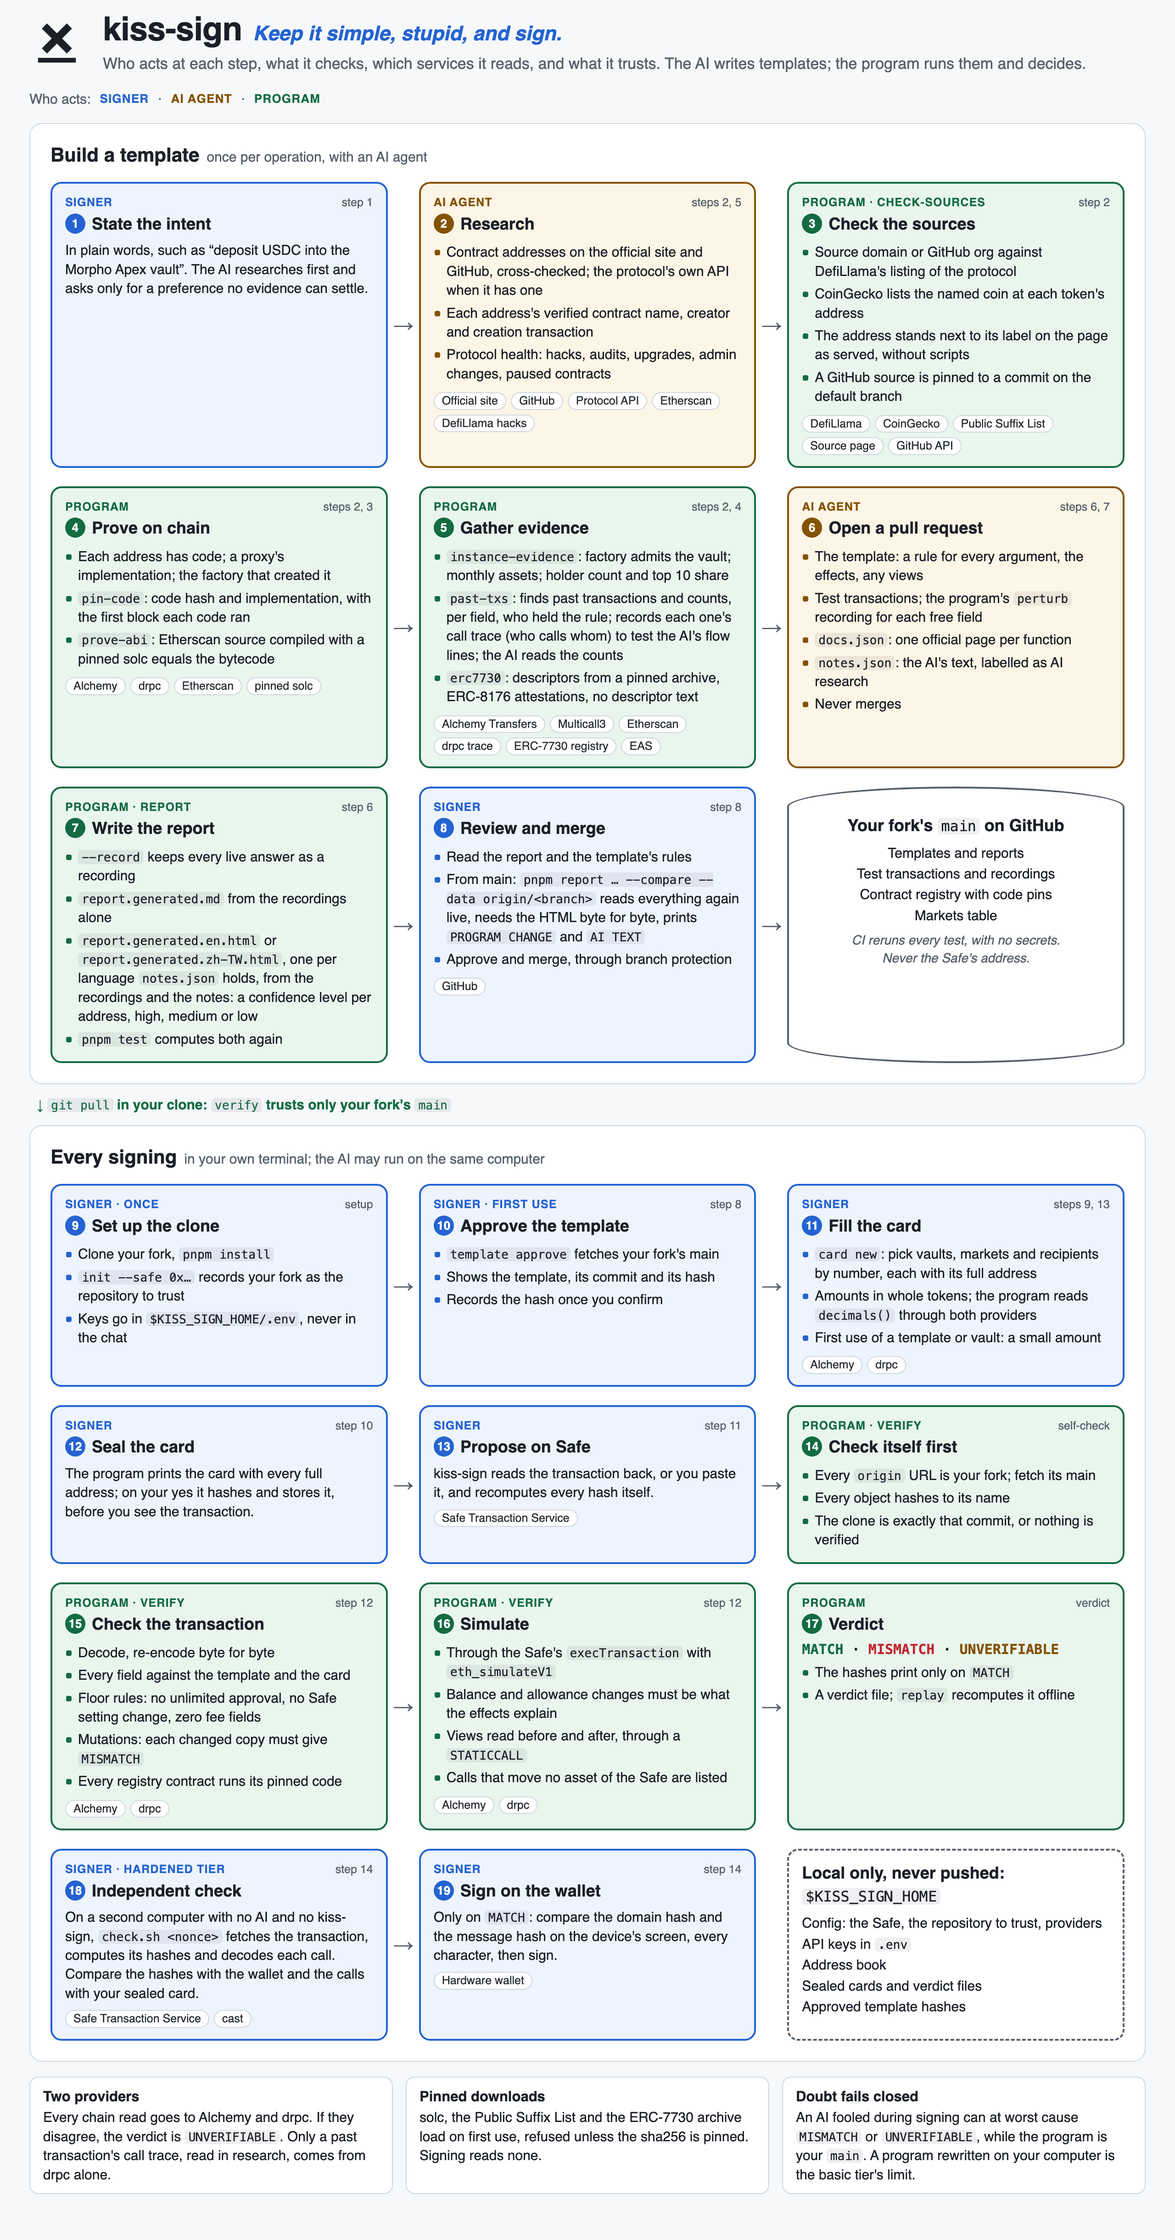
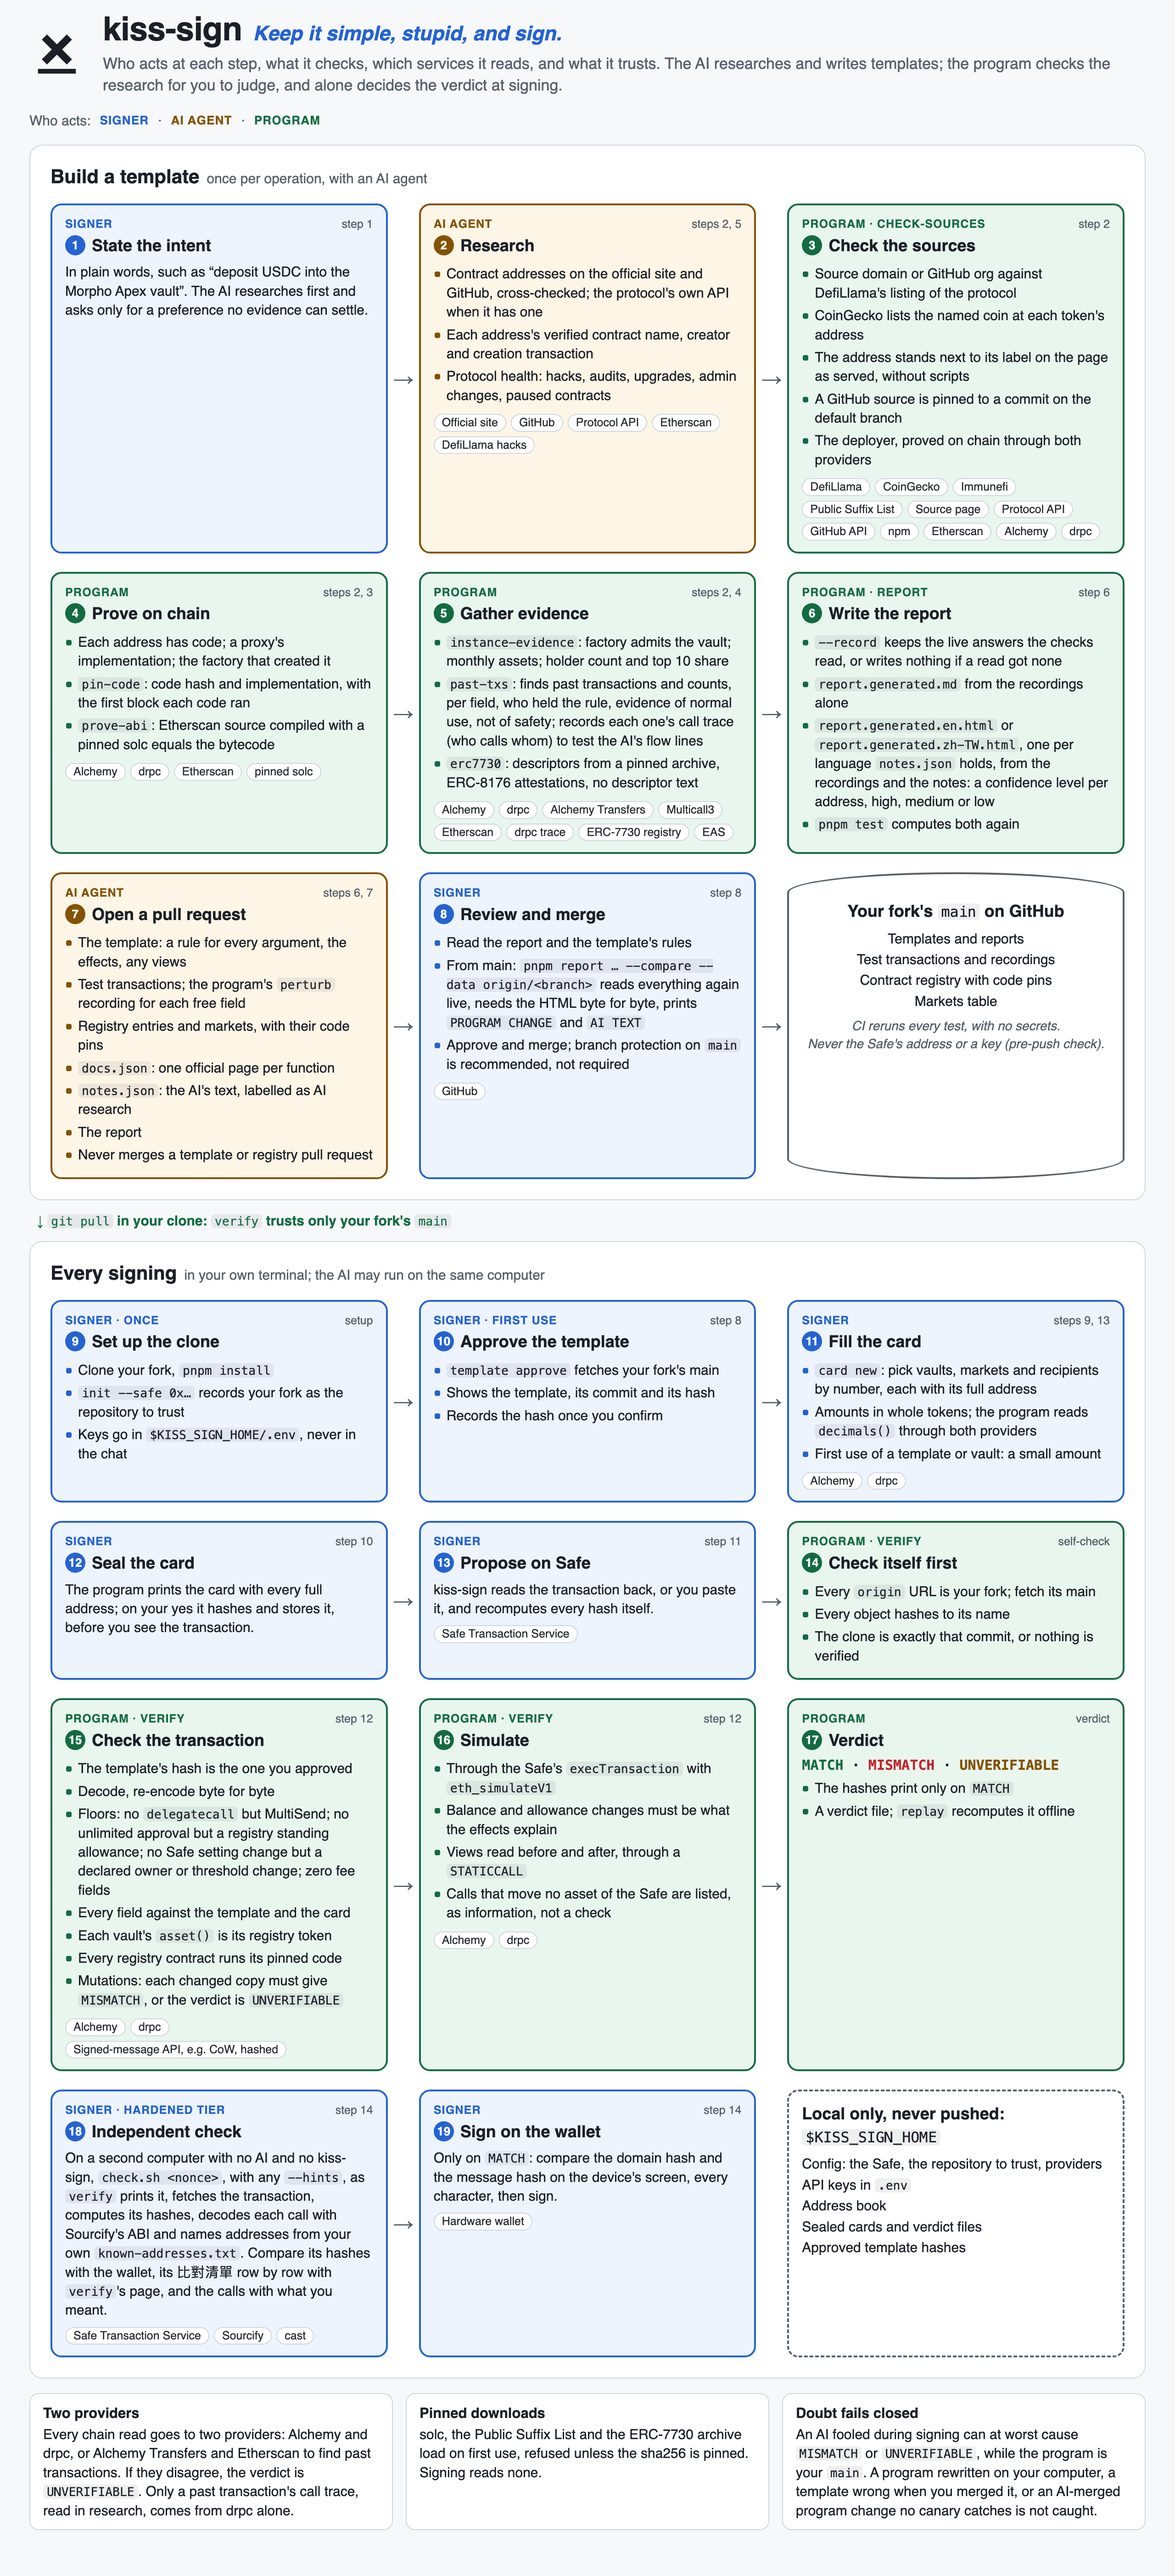
docs(diagrams): correct the detail and overview diagrams against the design
Fix what the diagrams said wrong or misleadingly about the current program:
who merges what, the order of report and pull request, the floors and the
checks verify runs, what the independent check compares, the services
check-sources and the evidence steps read, what a recording keeps, and what
the basic tier does not catch. Re-render both PNGs.

Claude-Session: https://claude.ai/code/session_019EpkRikTD1KbjKp9L1wtSS

diff --git a/docs/diagrams/detail.html b/docs/diagrams/detail.html
@@ -60,7 +60,7 @@
   <svg viewBox="0 0 256 256" aria-hidden="true"><g fill="#1b1f27"><path d="M57.98 58.02 L173.98 174.02 L198.02 149.98 L82.02 33.98 Z"/><path d="M173.98 33.98 L57.98 149.98 L82.02 174.02 L198.02 58.02 Z"/><rect x="40" y="194" width="176" height="22"/></g></svg>
   <div>
     <h1>kiss-sign<em>Keep it simple, stupid, and sign.</em></h1>
-    <p>Who acts at each step, what it checks, which services it reads, and what it trusts. The AI writes templates; the program runs them and decides.</p>
+    <p>Who acts at each step, what it checks, which services it reads, and what it trusts. The AI researches and writes templates; the program checks the research for you to judge, and alone decides the verdict at signing.</p>
   </div>
 </header>
 <div class="legend">Who acts:
@@ -92,8 +92,9 @@
         <li>CoinGecko lists the named coin at each token's address</li>
         <li>The address stands next to its label on the page as served, without scripts</li>
         <li>A GitHub source is pinned to a commit on the default branch</li>
+        <li>The deployer, proved on chain through both providers</li>
       </ul>
-      <div class="chips"><span class="chip">DefiLlama</span><span class="chip">CoinGecko</span><span class="chip">Public Suffix List</span><span class="chip">Source page</span><span class="chip">GitHub API</span></div></div>
+      <div class="chips"><span class="chip">DefiLlama</span><span class="chip">CoinGecko</span><span class="chip">Immunefi</span><span class="chip">Public Suffix List</span><span class="chip">Source page</span><span class="chip">Protocol API</span><span class="chip">GitHub API</span><span class="chip">npm</span><span class="chip">Etherscan</span><span class="chip">Alchemy</span><span class="chip">drpc</span></div></div>
 
     <div class="box program"><div class="head"><span>Program</span><span>steps 2, 3</span></div>
       <h3><i>4</i>Prove on chain</h3>
@@ -108,28 +109,30 @@
       <h3><i>5</i>Gather evidence</h3>
       <ul>
         <li><code>instance-evidence</code>: factory admits the vault; monthly assets; holder count and top 10 share</li>
-        <li><code>past-txs</code>: finds past transactions and counts, per field, who held the rule; records each one's call trace (who calls whom) to test the AI's flow lines; the AI reads the counts</li>
+        <li><code>past-txs</code>: finds past transactions and counts, per field, who held the rule, evidence of normal use, not of safety; records each one's call trace (who calls whom) to test the AI's flow lines</li>
         <li><code>erc7730</code>: descriptors from a pinned archive, ERC-8176 attestations, no descriptor text</li>
       </ul>
-      <div class="chips"><span class="chip">Alchemy Transfers</span><span class="chip">Multicall3</span><span class="chip">Etherscan</span><span class="chip">drpc trace</span><span class="chip">ERC-7730 registry</span><span class="chip">EAS</span></div></div>
+      <div class="chips"><span class="chip">Alchemy</span><span class="chip">drpc</span><span class="chip">Alchemy Transfers</span><span class="chip">Multicall3</span><span class="chip">Etherscan</span><span class="chip">drpc trace</span><span class="chip">ERC-7730 registry</span><span class="chip">EAS</span></div></div>
     <div class="arrow">→</div>
-    <div class="box ai"><div class="head"><span>AI agent</span><span>steps 6, 7</span></div>
-      <h3><i>6</i>Open a pull request</h3>
-      <ul>
-        <li>The template: a rule for every argument, the effects, any views</li>
-        <li>Test transactions; the program's <code>perturb</code> recording for each free field</li>
-        <li><code>docs.json</code>: one official page per function</li>
-        <li><code>notes.json</code>: the AI's text, labelled as AI research</li>
-        <li>Never merges</li>
-      </ul></div>
-
     <div class="box program"><div class="head"><span>Program · report</span><span>step 6</span></div>
-      <h3><i>7</i>Write the report</h3>
+      <h3><i>6</i>Write the report</h3>
       <ul>
-        <li><code>--record</code> keeps every live answer as a recording</li>
+        <li><code>--record</code> keeps the live answers the checks read, or writes nothing if a read got none</li>
         <li><code>report.generated.md</code> from the recordings alone</li>
         <li><code>report.generated.en.html</code> or <code>report.generated.zh-TW.html</code>, one per language <code>notes.json</code> holds, from the recordings and the notes: a confidence level per address, high, medium or low</li>
         <li><code>pnpm test</code> computes both again</li>
+      </ul></div>
+
+    <div class="box ai"><div class="head"><span>AI agent</span><span>steps 6, 7</span></div>
+      <h3><i>7</i>Open a pull request</h3>
+      <ul>
+        <li>The template: a rule for every argument, the effects, any views</li>
+        <li>Test transactions; the program's <code>perturb</code> recording for each free field</li>
+        <li>Registry entries and markets, with their code pins</li>
+        <li><code>docs.json</code>: one official page per function</li>
+        <li><code>notes.json</code>: the AI's text, labelled as AI research</li>
+        <li>The report</li>
+        <li>Never merges a template or registry pull request</li>
       </ul></div>
     <div class="arrow">→</div>
     <div class="box signer"><div class="head"><span>Signer</span><span>step 8</span></div>
@@ -137,13 +140,13 @@
       <ul>
         <li>Read the report and the template's rules</li>
         <li>From main: <code>pnpm report … --compare --data origin/&lt;branch&gt;</code> reads everything again live, needs the HTML byte for byte, prints <code>PROGRAM CHANGE</code> and <code>AI TEXT</code></li>
-        <li>Approve and merge, through branch protection</li>
+        <li>Approve and merge; branch protection on <code>main</code> is recommended, not required</li>
       </ul>
       <div class="chips"><span class="chip">GitHub</span></div></div>
     <div class="arrow">→</div>
     <div class="store repo"><h3>Your fork's <code>main</code> on GitHub</h3>
       <ul><li>Templates and reports</li><li>Test transactions and recordings</li><li>Contract registry with code pins</li><li>Markets table</li></ul>
-      <div class="foot">CI reruns every test, with no secrets.<br>Never the Safe's address.</div></div>
+      <div class="foot">CI reruns every test, with no secrets.<br>Never the Safe's address or a key (pre-push check).</div></div>
   </div>
 </section>
 
@@ -197,13 +200,15 @@
     <div class="box program"><div class="head"><span>Program · verify</span><span>step 12</span></div>
       <h3><i>15</i>Check the transaction</h3>
       <ul>
+        <li>The template's hash is the one you approved</li>
         <li>Decode, re-encode byte for byte</li>
+        <li>Floors: no <code>delegatecall</code> but MultiSend; no unlimited approval but a registry standing allowance; no Safe setting change but a declared owner or threshold change; zero fee fields</li>
         <li>Every field against the template and the card</li>
-        <li>Floor rules: no unlimited approval, no Safe setting change, zero fee fields</li>
-        <li>Mutations: each changed copy must give <code>MISMATCH</code></li>
+        <li>Each vault's <code>asset()</code> is its registry token</li>
         <li>Every registry contract runs its pinned code</li>
+        <li>Mutations: each changed copy must give <code>MISMATCH</code>, or the verdict is <code>UNVERIFIABLE</code></li>
       </ul>
-      <div class="chips"><span class="chip">Alchemy</span><span class="chip">drpc</span></div></div>
+      <div class="chips"><span class="chip">Alchemy</span><span class="chip">drpc</span><span class="chip">Signed-message API, e.g. CoW, hashed</span></div></div>
     <div class="arrow">→</div>
     <div class="box program"><div class="head"><span>Program · verify</span><span>step 12</span></div>
       <h3><i>16</i>Simulate</h3>
@@ -211,7 +216,7 @@
         <li>Through the Safe's <code>execTransaction</code> with <code>eth_simulateV1</code></li>
         <li>Balance and allowance changes must be what the effects explain</li>
         <li>Views read before and after, through a <code>STATICCALL</code></li>
-        <li>Calls that move no asset of the Safe are listed</li>
+        <li>Calls that move no asset of the Safe are listed, as information, not a check</li>
       </ul>
       <div class="chips"><span class="chip">Alchemy</span><span class="chip">drpc</span></div></div>
     <div class="arrow">→</div>
@@ -225,8 +230,8 @@
 
     <div class="box signer"><div class="head"><span>Signer · hardened tier</span><span>step 14</span></div>
       <h3><i>18</i>Independent check</h3>
-      <p>On a second computer with no AI and no kiss-sign, <code>check.sh &lt;nonce&gt;</code> fetches the transaction, computes its hashes and decodes each call. Compare the hashes with the wallet and the calls with your sealed card.</p>
-      <div class="chips"><span class="chip">Safe Transaction Service</span><span class="chip">cast</span></div></div>
+      <p>On a second computer with no AI and no kiss-sign, <code>check.sh &lt;nonce&gt;</code>, with any <code>--hints</code>, as <code>verify</code> prints it, fetches the transaction, computes its hashes, decodes each call with Sourcify's ABI and names addresses from your own <code>known-addresses.txt</code>. Compare its hashes with the wallet, its 比對清單 row by row with <code>verify</code>'s page, and the calls with what you meant.</p>
+      <div class="chips"><span class="chip">Safe Transaction Service</span><span class="chip">Sourcify</span><span class="chip">cast</span></div></div>
     <div class="arrow">→</div>
     <div class="box signer"><div class="head"><span>Signer</span><span>step 14</span></div>
       <h3><i>19</i>Sign on the wallet</h3>
@@ -239,9 +244,9 @@
 </section>
 
 <div class="trust">
-  <div><b>Two providers</b>Every chain read goes to Alchemy and drpc. If they disagree, the verdict is <code>UNVERIFIABLE</code>. Only a past transaction's call trace, read in research, comes from drpc alone.</div>
+  <div><b>Two providers</b>Every chain read goes to two providers: Alchemy and drpc, or Alchemy Transfers and Etherscan to find past transactions. If they disagree, the verdict is <code>UNVERIFIABLE</code>. Only a past transaction's call trace, read in research, comes from drpc alone.</div>
   <div><b>Pinned downloads</b>solc, the Public Suffix List and the ERC-7730 archive load on first use, refused unless the sha256 is pinned. Signing reads none.</div>
-  <div><b>Doubt fails closed</b>An AI fooled during signing can at worst cause <code>MISMATCH</code> or <code>UNVERIFIABLE</code>, while the program is your <code>main</code>. A program rewritten on your computer is the basic tier's limit.</div>
+  <div><b>Doubt fails closed</b>An AI fooled during signing can at worst cause <code>MISMATCH</code> or <code>UNVERIFIABLE</code>, while the program is your <code>main</code>. A program rewritten on your computer, a template wrong when you merged it, or an AI-merged program change no canary catches is not caught.</div>
 </div>
 <script>document.body.dataset.height = Math.ceil(document.documentElement.getBoundingClientRect().height);</script>
 </body>

diff --git a/docs/diagrams/overview.html b/docs/diagrams/overview.html
@@ -52,7 +52,7 @@
   <svg viewBox="0 0 256 256" aria-hidden="true"><g fill="#1b1f27"><path d="M57.98 58.02 L173.98 174.02 L198.02 149.98 L82.02 33.98 Z"/><path d="M173.98 33.98 L57.98 149.98 L82.02 174.02 L198.02 58.02 Z"/><rect x="40" y="194" width="176" height="22"/></g></svg>
   <div>
     <h1>kiss-sign<em>Keep it simple, stupid, and sign.</em></h1>
-    <p>An AI writes templates. A fixed program runs them and decides. You sign only on <code>MATCH</code>.</p>
+    <p>An AI writes templates. A fixed program runs them and decides the verdict. You sign only on <code>MATCH</code>.</p>
   </div>
 </header>
 <div class="legend">Who acts:
@@ -95,10 +95,10 @@
         <li><b>Vault history</b> <span class="chip">Alchemy</span><span class="chip">drpc</span></li>
         <li><b>ERC-7730 descriptors</b> <span class="note">and who attested them</span> <span class="chip">ERC-7730 registry</span></li>
       </ul></li>
-    <li class="step ai"><div class="title">Open a pull request <span class="who">AI agent</span></div>
-      <div class="desc">The template, its test transactions, and the AI's notes. It never merges.</div></li>
     <li class="step program"><div class="title">Write the report <span class="who">Program</span></div>
       <div class="desc">From the recordings, never by the AI: a Markdown report and, with the AI's notes, an HTML report with a confidence level per address.</div></li>
+    <li class="step ai"><div class="title">Open a pull request <span class="who">AI agent</span></div>
+      <div class="desc">The template, its test transactions, the AI's notes, and the report. It never merges a template or registry pull request.</div></li>
     <li class="step signer"><div class="title">Review and merge <span class="who">You</span></div>
       <div class="desc">Read the report, run <code>pnpm report … --compare</code> to read it all again live, then merge. Merging is your approval. <span class="chip">GitHub</span></div></li>
   </ol>
@@ -120,15 +120,16 @@
     <li class="step program"><div class="title">Verify <span class="who">Program</span></div>
       <ul class="sub">
         <li><b>Self-check</b> <span class="note">the clone is exactly your fork's <code>main</code></span></li>
+        <li><b>Approval</b> <span class="note">the template's hash is the one you approved</span></li>
         <li><b>Decode</b> <span class="note">byte for byte, every field against the template and the card</span></li>
-        <li><b>Mutations</b> <span class="note">each changed copy must give <code>MISMATCH</code></span></li>
+        <li><b>Mutations</b> <span class="note">each changed copy must give <code>MISMATCH</code>, or the verdict is <code>UNVERIFIABLE</code></span></li>
         <li><b>Code pins</b> <span class="note">every registry contract runs its pinned code</span></li>
         <li><b>Simulate</b> <span class="note">balances, allowances and views must match the card</span> <span class="chip">Alchemy</span><span class="chip">drpc</span></li>
       </ul></li>
     <li class="step program"><div class="title">Verdict <span class="who">Program</span></div>
       <div class="verdict"><span class="m">MATCH</span> · <span class="x">MISMATCH</span> · <span class="u">UNVERIFIABLE</span></div></li>
     <li class="step signer"><div class="title">Independent check <span class="who">You · hardened tier</span></div>
-      <div class="desc">On a second computer with no AI and no kiss-sign, <code>check.sh &lt;nonce&gt;</code> computes the hashes and decodes each call. Compare the hashes with the wallet and the calls with your sealed card. <span class="chip">Safe Transaction Service</span></div></li>
+      <div class="desc">On a second computer with no AI and no kiss-sign, <code>check.sh &lt;nonce&gt;</code> computes the hashes and decodes each call. Compare its hashes with the wallet, its 比對清單 row by row with <code>verify</code>'s page, and the calls with what you meant. <span class="chip">Safe Transaction Service</span><span class="chip">Sourcify</span></div></li>
     <li class="step signer"><div class="title">Sign on the wallet <span class="who">You</span></div>
       <div class="desc">Only on <code>MATCH</code>: compare both hashes on the device's screen. <span class="chip">Hardware wallet</span></div></li>
   </ol>
